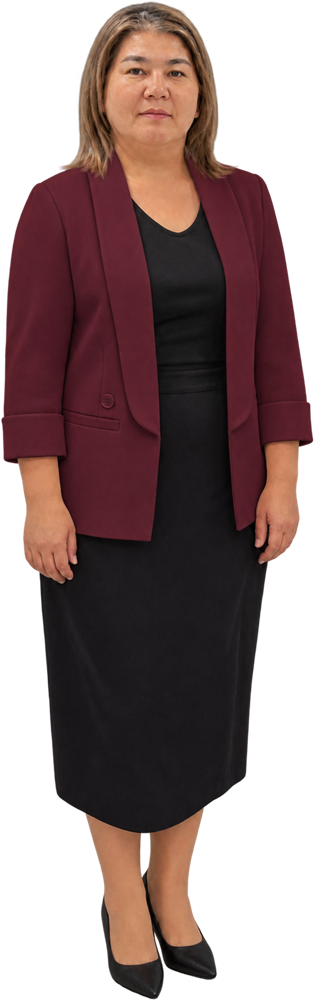
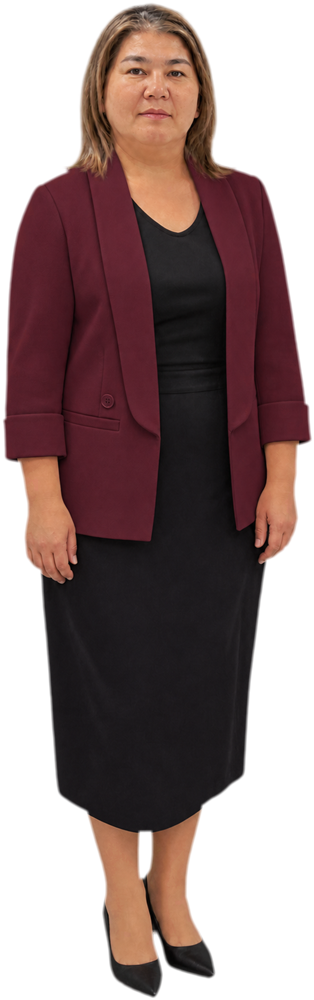
Teacher figures: contact shadows, defringed cut-outs, programme update 25.11.2026

diff --git a/app.js b/app.js
@@ -13,18 +13,18 @@
   const S = [
     { id: '01', door: [1000, 265, 1425, 746], zone: [70, 120, 680, 700], mS: 1190 },
     { id: '02', door: [745, 195, 1195, 655], zone: [70, 130, 700, 640], mS: 1080 },
-    { id: '03', door: [30, 240, 222, 790], zone: [330, 130, 1080, 620], niche: [1130, 180, 1470, 740], fig: { x: 1298, y: 735, h: 400, sx: 0.35, ca: 0.26 }, mS: 1180, mN: 1250 },
-    { id: '04', door: [810, 300, 980, 690], zone: [1110, 320, 1600, 760], niche: [84, 190, 388, 740], fig: { x: 236, y: 735, h: 389, sx: 0.4, ca: 0.26 }, mS: 760, mN: 470 },
-    { id: '05', door: [1490, 250, 1672, 700], zone: [50, 270, 740, 600], niche: [1170, 310, 1370, 690], fig: { x: 1268, y: 686, h: 274, sx: 0.9, ca: 0.22 }, mS: 1230, mN: 1300 },
-    { id: '06', door: [1340, 240, 1570, 700], zone: [420, 140, 1150, 520], niche: [68, 200, 334, 730], fig: { x: 200, y: 726, h: 377, sx: 0.4, ca: 0.26 }, mS: 1180, mN: 380 },
-    { id: '07', door: [545, 380, 665, 640], zone: [40, 120, 560, 700], niche: [1300, 170, 1580, 740], fig: { x: 1438, y: 736, h: 400, sx: 0.55, ca: 0.24 }, mS: 900, mN: 1240 },
-    { id: '08', door: [1420, 350, 1610, 650], zone: [400, 140, 900, 600], niche: [88, 230, 348, 740], fig: { x: 218, y: 736, h: 362, sx: 0.4, ca: 0.26 }, mS: 1200, mN: 400 },
-    { id: '09', door: [0, 200, 200, 700], zone: [225, 150, 590, 440], niche: [1244, 170, 1496, 720], fig: { x: 1370, y: 716, h: 389, sx: 0.4, ca: 0.26 }, mS: 900, mN: 1200 },
-    { id: '10', door: [470, 240, 718, 690], zone: [840, 110, 1300, 600], niche: [68, 240, 290, 700], fig: { x: 178, y: 696, h: 327, sx: 0.75, ca: 0.24 }, mS: 620, mN: 440 },
-    { id: '11', door: [410, 230, 660, 650], zone: [30, 120, 420, 660], niche: [1300, 220, 1530, 700], fig: { x: 1414, y: 696, h: 342, sx: 0.3, ca: 0.3 }, mS: 1150, mN: 1250 },
-    { id: '12', door: [1210, 290, 1530, 740], zone: [560, 320, 1000, 560], niche: [64, 280, 244, 760], fig: { x: 154, y: 756, h: 342, sx: 0.4, ca: 0.26 }, mS: 1200, mN: 380 },
+    { id: '03', door: [30, 240, 222, 790], zone: [330, 130, 1080, 620], niche: [1130, 180, 1470, 740], fig: { x: 1298, y: 745, h: 400, sx: 0.35, ca: 0.26 }, mS: 1180, mN: 1250 },
+    { id: '04', door: [810, 300, 980, 690], zone: [1110, 320, 1600, 760], niche: [84, 190, 388, 740], fig: { x: 236, y: 745, h: 389, sx: 0.4, ca: 0.26 }, mS: 760, mN: 470 },
+    { id: '05', door: [1490, 250, 1672, 700], zone: [50, 270, 740, 600], niche: [1170, 310, 1370, 690], fig: { x: 1268, y: 696, h: 274, sx: 0.9, ca: 0.22 }, mS: 1230, mN: 1300 },
+    { id: '06', door: [1340, 240, 1570, 700], zone: [420, 140, 1150, 520], niche: [68, 200, 334, 730], fig: { x: 200, y: 736, h: 377, sx: 0.4, ca: 0.26 }, mS: 1180, mN: 380 },
+    { id: '07', door: [545, 380, 665, 640], zone: [40, 120, 560, 700], niche: [1300, 170, 1580, 740], fig: { x: 1438, y: 746, h: 400, sx: 0.55, ca: 0.24 }, mS: 900, mN: 1240 },
+    { id: '08', door: [1420, 350, 1610, 650], zone: [400, 140, 900, 600], niche: [88, 230, 348, 740], fig: { x: 218, y: 746, h: 362, sx: 0.4, ca: 0.26 }, mS: 1200, mN: 400 },
+    { id: '09', door: [0, 200, 200, 700], zone: [225, 150, 590, 440], niche: [1244, 170, 1496, 720], fig: { x: 1370, y: 726, h: 389, sx: 0.4, ca: 0.26 }, mS: 900, mN: 1200 },
+    { id: '10', door: [470, 240, 718, 690], zone: [840, 110, 1300, 600], niche: [68, 240, 290, 700], fig: { x: 178, y: 706, h: 327, sx: 0.75, ca: 0.24 }, mS: 620, mN: 440 },
+    { id: '11', door: [410, 230, 660, 650], zone: [30, 120, 420, 660], niche: [1300, 220, 1530, 700], fig: { x: 1414, y: 706, h: 342, sx: 0.3, ca: 0.3 }, mS: 1150, mN: 1250 },
+    { id: '12', door: [1210, 290, 1530, 740], zone: [560, 320, 1000, 560], niche: [64, 280, 244, 760], fig: { x: 154, y: 766, h: 342, sx: 0.4, ca: 0.26 }, mS: 1200, mN: 380 },
     { id: '13', door: [1370, 230, 1610, 700], zone: [170, 110, 1300, 690], mS: 1240 },
-    { id: '14', door: [590, 225, 1110, 690], zone: [40, 130, 560, 640], niche: [1344, 140, 1638, 680], fig: { x: 1490, y: 676, h: 383, sx: -0.35, ca: 0.28 }, mS: 860, mN: 1250 },
+    { id: '14', door: [590, 225, 1110, 690], zone: [40, 130, 560, 640], niche: [1344, 140, 1638, 680], fig: { x: 1490, y: 686, h: 383, sx: -0.35, ca: 0.28 }, mS: 860, mN: 1250 },
     { id: '15', zone: [40, 120, 640, 700], mS: 1030 },
   ];
   const N = S.length;
@@ -73,9 +73,12 @@
     cast.style.setProperty('--castA', fg.ca);
     // contact shadow: small, dense, soft-edged, right under the shoes
     const ct = document.createElement('div'); ct.className = 'contact';
-    Object.assign(ct.style, { left: '50%', top: '100%', width: '30%', height: '4%' });
+    Object.assign(ct.style, { left: '50%', top: '99.2%', width: '30%', height: '4.2%' });
+    // ambient occlusion: wider, soft darkening of the niche floor around the shoes
+    const ao = document.createElement('div'); ao.className = 'ao';
+    Object.assign(ao.style, { left: '50%', top: '99.6%', width: '52%', height: '8.5%' });
     const im = document.createElement('img'); im.alt = ''; im.src = 'people/' + file + '.png';
-    g.append(cast, ct, im); lay.appendChild(g);
+    g.append(cast, ao, ct, im); lay.appendChild(g);
   }
 
   // ---------- layers ----------

diff --git a/style.css b/style.css
@@ -31,8 +31,10 @@ nav a.on{color:var(--ha);border-color:var(--ha)}
 /* teacher figure: PNG cut-out standing on the floor; shadows lie on the floor plane behind the feet */
 .fig{position:absolute;pointer-events:none}
 .fig .cast{position:absolute;transform-origin:0 50%;border-radius:50%;filter:blur(1.5px);background:radial-gradient(ellipse at 6% 50%,rgba(48,30,24,var(--castA,.3)) 0%,rgba(48,30,24,calc(var(--castA,.3)*.55)) 30%,rgba(48,30,24,0) 70%)}
-.fig .contact{position:absolute;transform:translate(-50%,-50%);border-radius:50%;filter:blur(1px);background:radial-gradient(closest-side,rgba(40,24,20,.62),rgba(40,24,20,.34) 55%,rgba(40,24,20,0))}
-.fig img{position:absolute;left:50%;bottom:0;height:100%;width:auto;transform:translateX(-50%)}
+.fig .ao{position:absolute;transform:translate(-50%,-50%);border-radius:50%;filter:blur(5px);background:radial-gradient(closest-side,rgba(36,22,18,.5),rgba(36,22,18,.26) 55%,rgba(36,22,18,0))}
+.fig .contact{position:absolute;transform:translate(-50%,-50%);border-radius:50%;filter:blur(1.5px);background:radial-gradient(closest-side,rgba(24,14,12,.88),rgba(24,14,12,.6) 50%,rgba(24,14,12,0))}
+/* match the studio cut-out to the warm, softly lit niche: slightly warmer, lower contrast, a touch darker */
+.fig img{position:absolute;left:50%;bottom:0;height:100%;width:auto;transform:translateX(-50%);filter:sepia(.14) saturate(.92) brightness(.95) contrast(.96)}
 .lay.fr{-webkit-mask-size:100% 100%;mask-size:100% 100%;-webkit-mask-repeat:no-repeat;mask-repeat:no-repeat}
 #veil{position:fixed;inset:0;background:var(--ivory);opacity:0;pointer-events:none;z-index:25;transition:opacity .28s ease}
 #veil.on{opacity:1}

diff --git a/index.html b/index.html
@@ -13,7 +13,7 @@
 (function(){var d=document.documentElement,q=location.search,rm=matchMedia('(prefers-reduced-motion: reduce)').matches;
 d.classList.add(/[?&]check/.test(q)?'check':/[?&]compare/.test(q)?'compare':(rm||/[?&]flat/.test(q))?'flat':'walk');})();
 </script>
-<link rel="stylesheet" href="style.css?v=44">
+<link rel="stylesheet" href="style.css?v=61">
 </head>
 <body>
 <a class="skip" href="#s01">Мазмұнға өту</a>
@@ -171,6 +171,6 @@ d.classList.add(/[?&]check/.test(q)?'check':/[?&]compare/.test(q)?'compare':(rm|
 <div id="tools" hidden></div>
 
 <div id="track" aria-hidden="true"></div>
-<script src="app.js?v=52"></script>
+<script src="app.js?v=62"></script>
 </body>
 </html>
